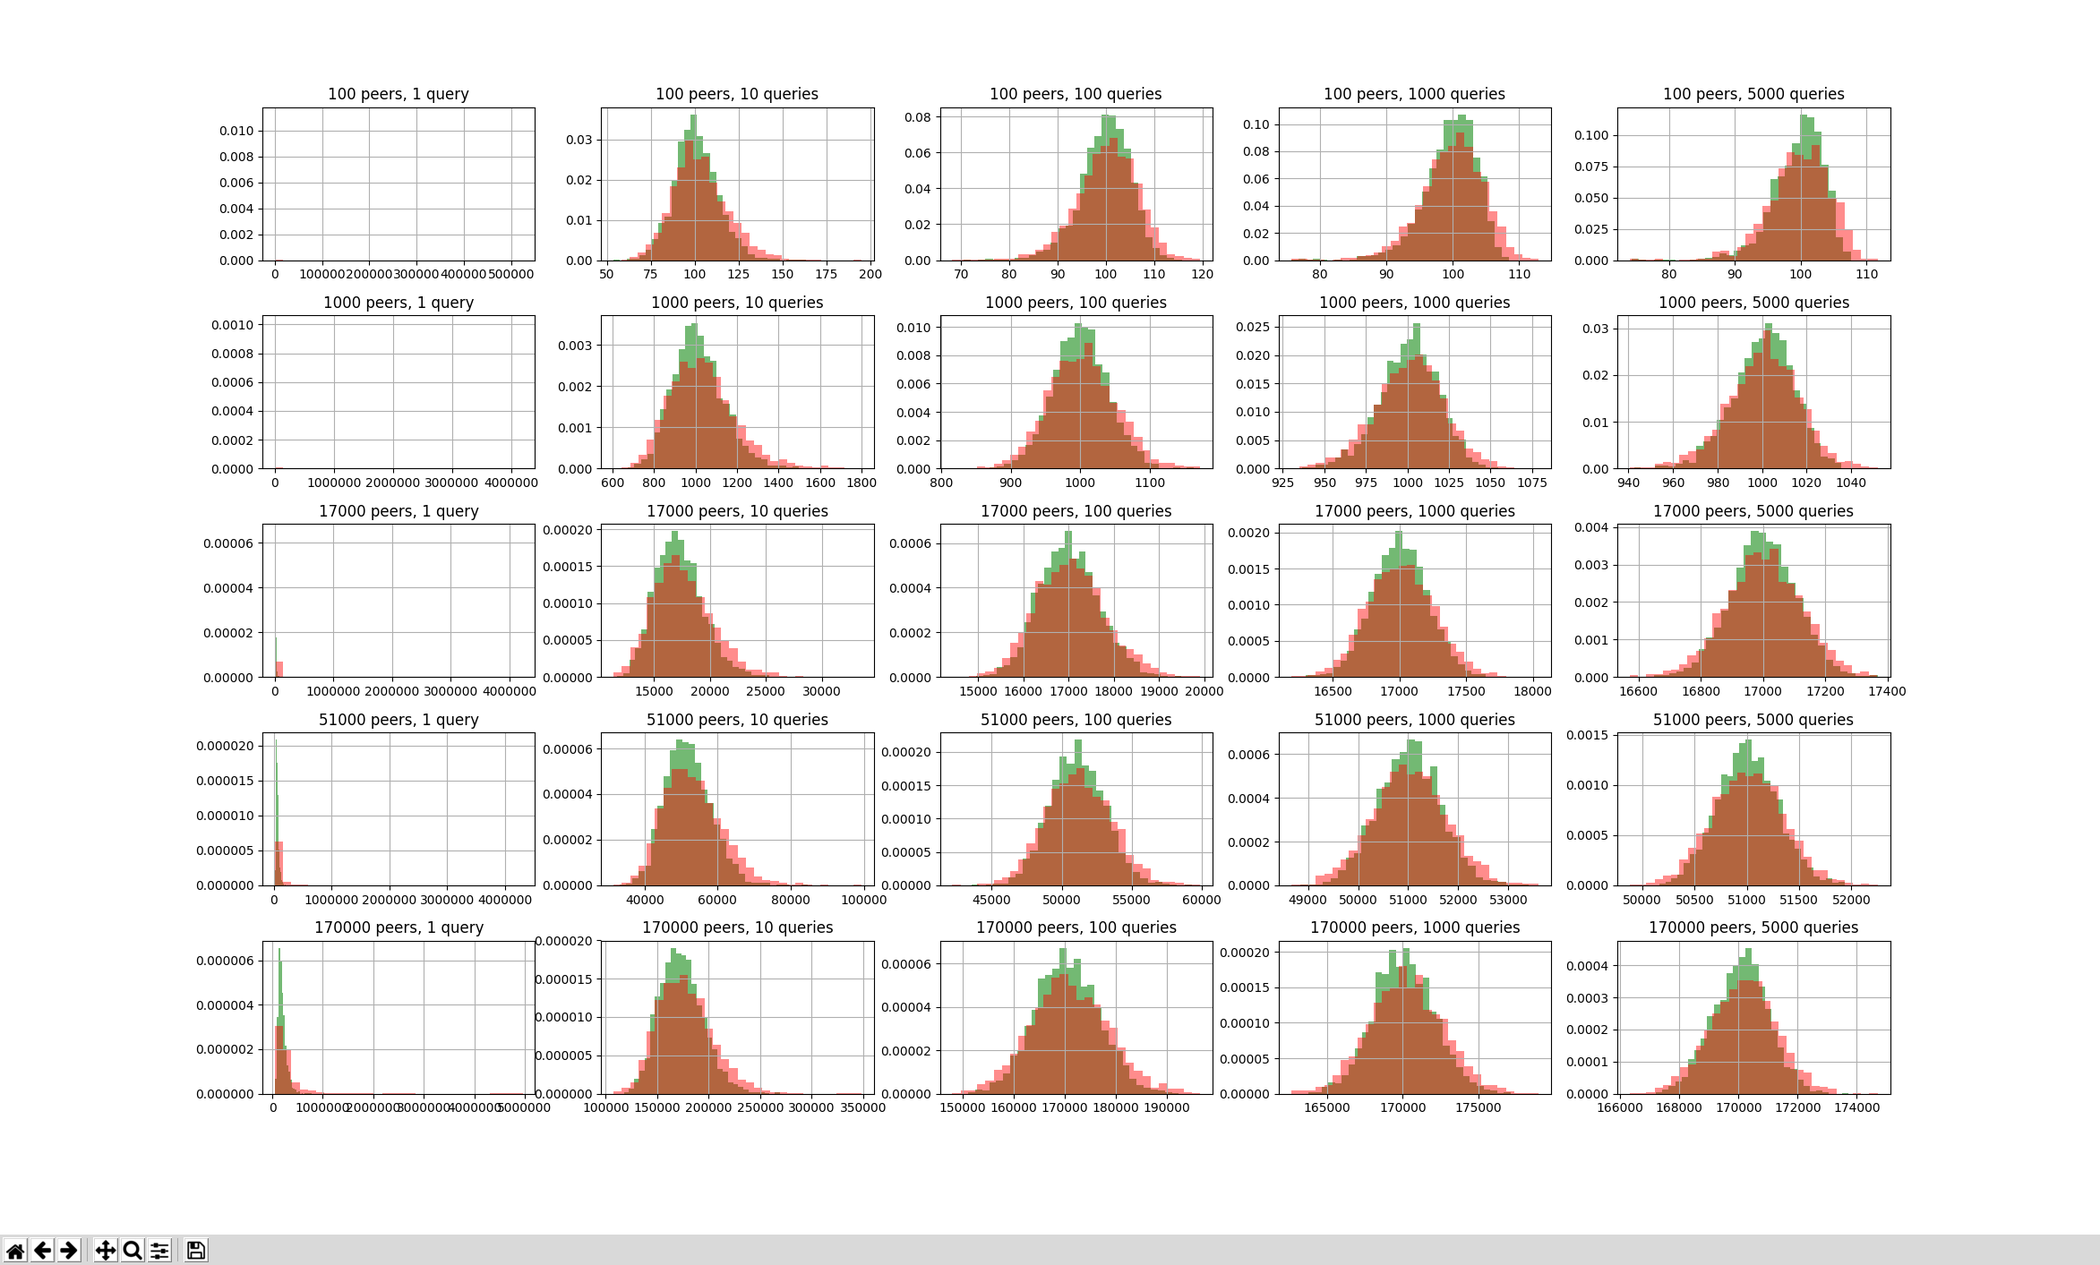
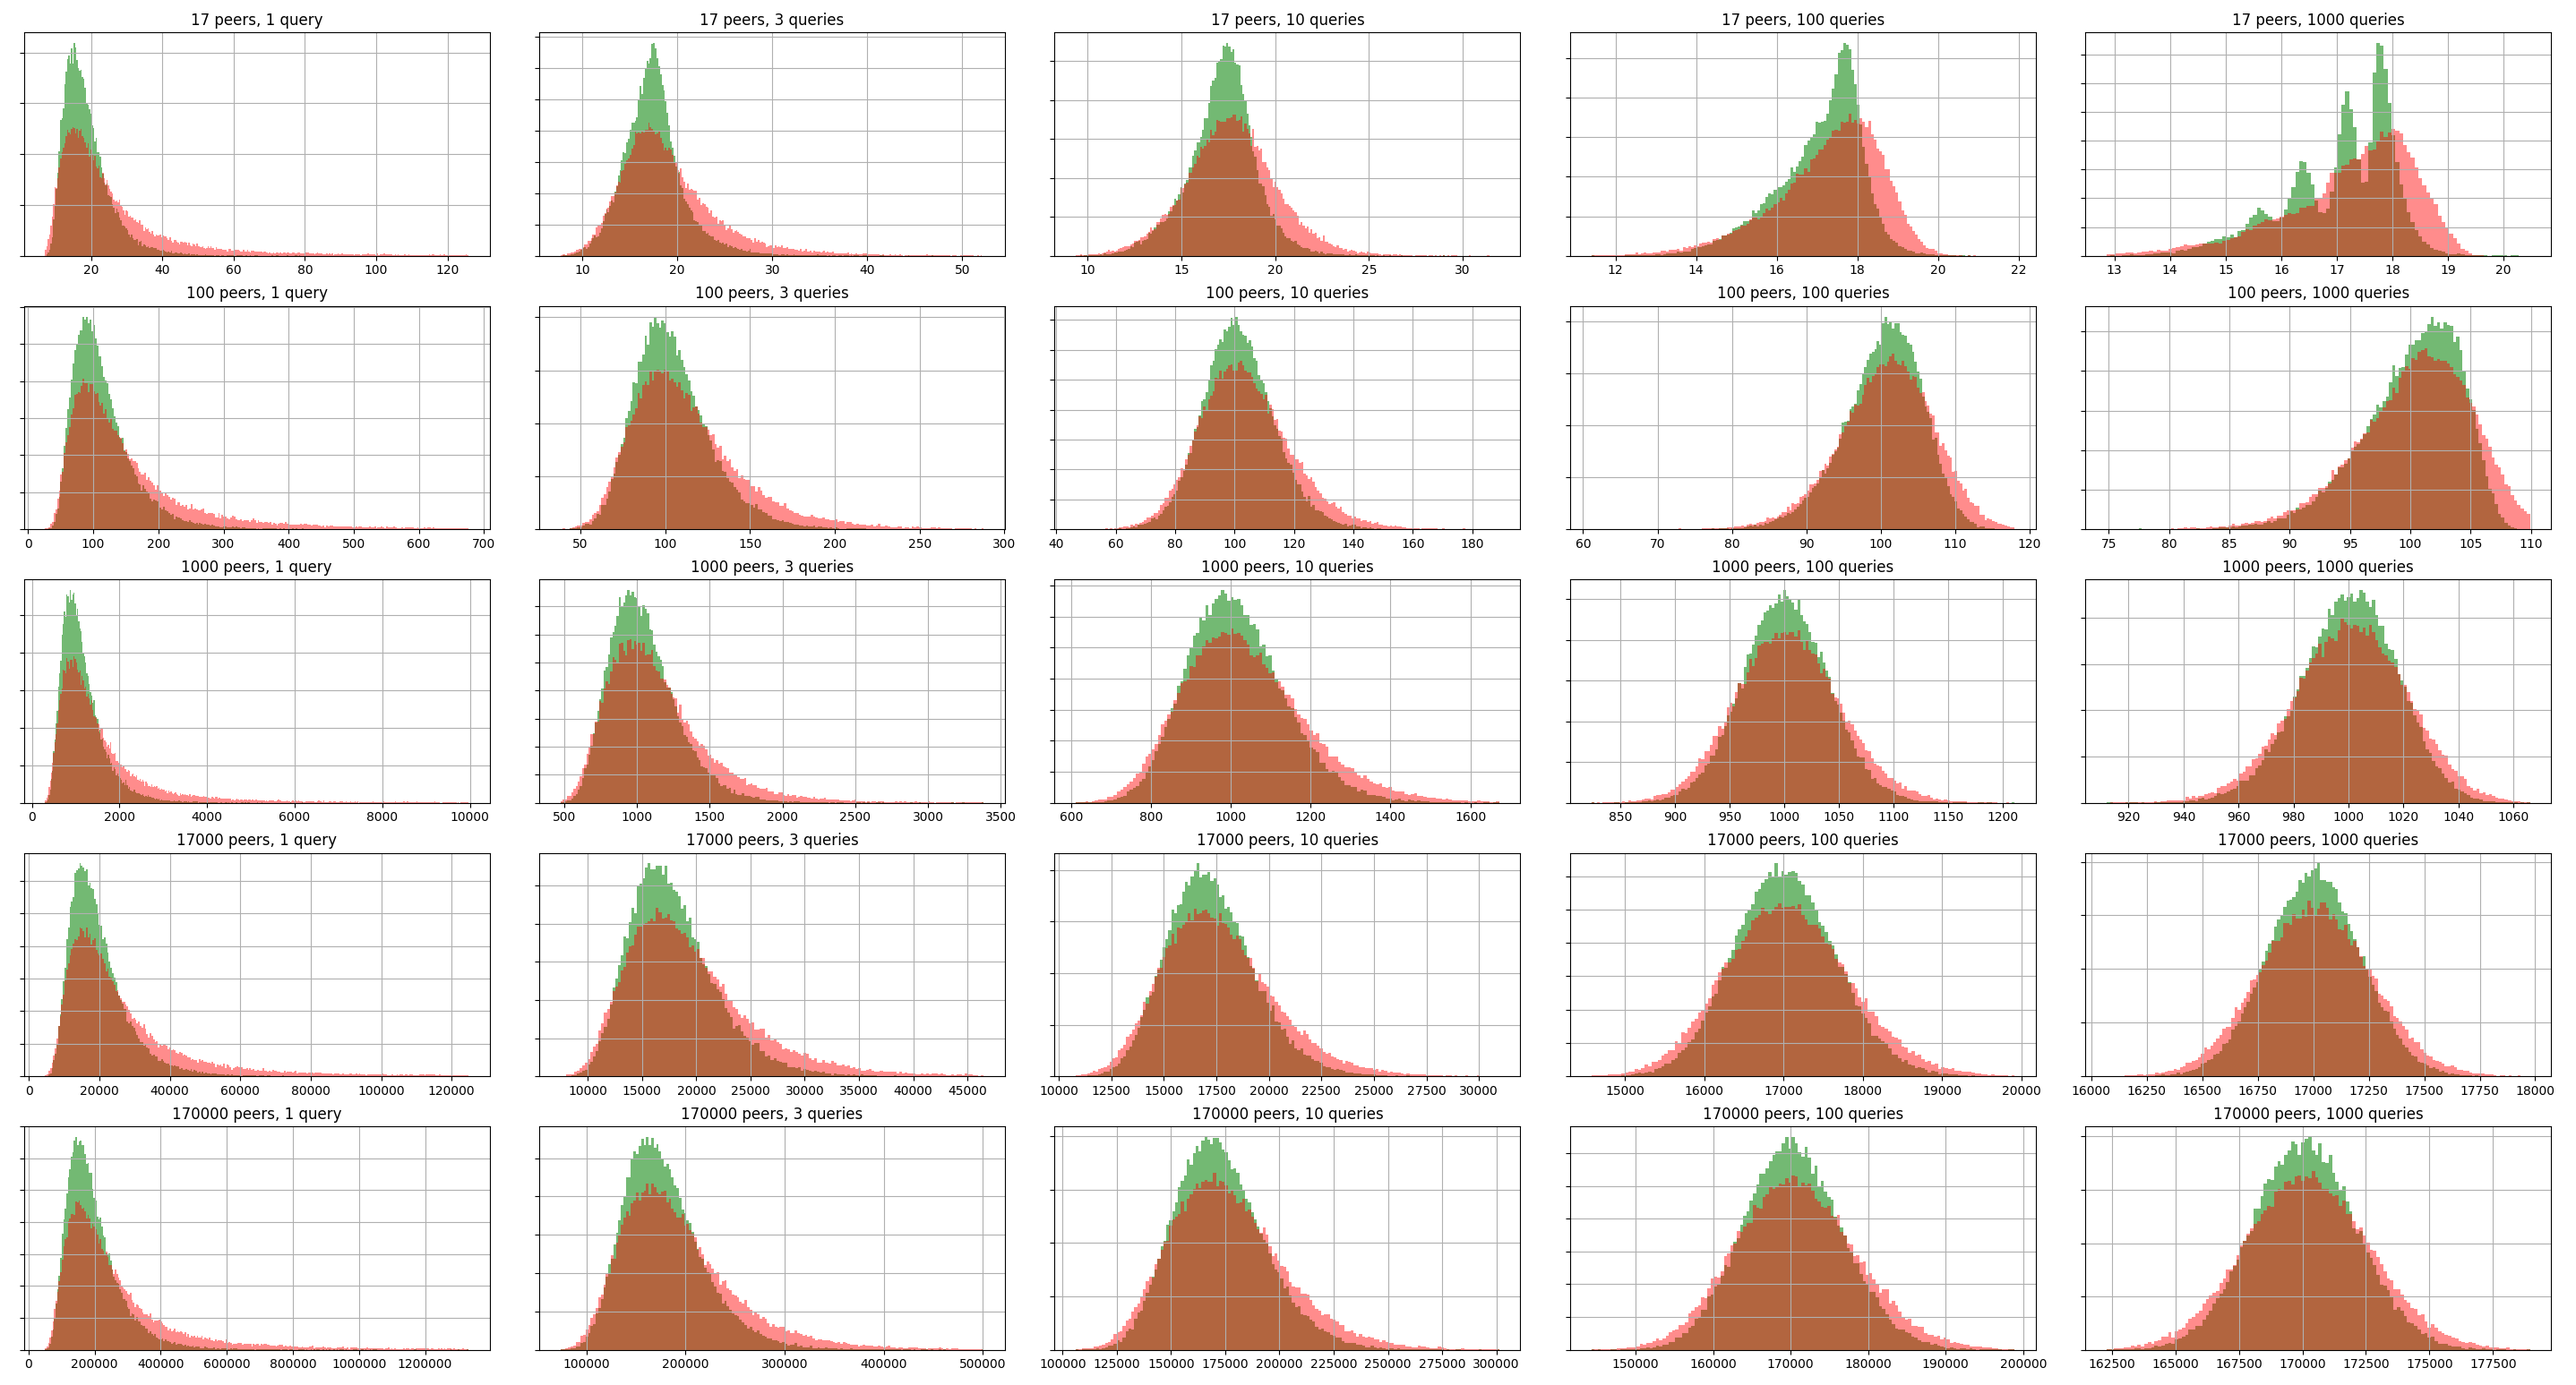
updated draft

diff --git a/drafts/dht-size-estimation.md b/drafts/dht-size-estimation.md
@@ -59,10 +59,12 @@ $$
 
 This gives the value of $n$ for which the squared errors on each estimate are collectively minimized. In this way, a quick and decently accurate estimate of network size can be produced from nothing more than the results of arbitrary address lookups.
 
-I'll close this out with some cool charts. These are the results of some empirical tests I ran to validate this methodology.
+I'll close this out with some cool charts. These are the results of some empirical tests I ran to validate this methodology. The charts are formatted as histograms of size estimates, with estimated size on the x-axis and probability density on the y-axis. Size estimates obtained by least-squares fit are shown in green; the results of using an arithmetic mean are shown in red. Both are fairly accurate, but the least-squares fit can be seen to have a somewhat tighter distribution across the board. It also produces significantly fewer outliers.
 
-Shown are the results of size estimates in networks of various sizes, and with values of $\mathbf{E}[r_i]$ averaged from various numbers of queries.
+From left-to-right, we see how estimates vary as the number of queries used to generate each estimate increases. The more queries used, the larger our sample size for measuring each $\mathbf{E}[r_i]$ is, and the lower the variance is on the resulting estimate. Check out how much the charts' ranges decrease from left to right.
 
-Estimates obtained by least-squares fit are shown in green; the results of using an arithmetic mean are shown in red. Both are fairly accurate, but the least-squares fit can be seen to have a tighter distribution across the board. Outliers are common for arithmetic mean-based single-query estimates, but these fall off quickly as the number of queries increases.
+From top-to-bottom, we see what happens as the size of the network increases. Interestingly, in each column, the ratio of variance to network size seems roughly constant.
+
+The top-right corner can also be seen to be exhibiting some really bizarre behavior. I really have no idea what's going on there, but I'm sure there's an interesting reason for it!
 
 ![Fit results](/sohliloquies/img/dht-size-estimation-charts.png)
